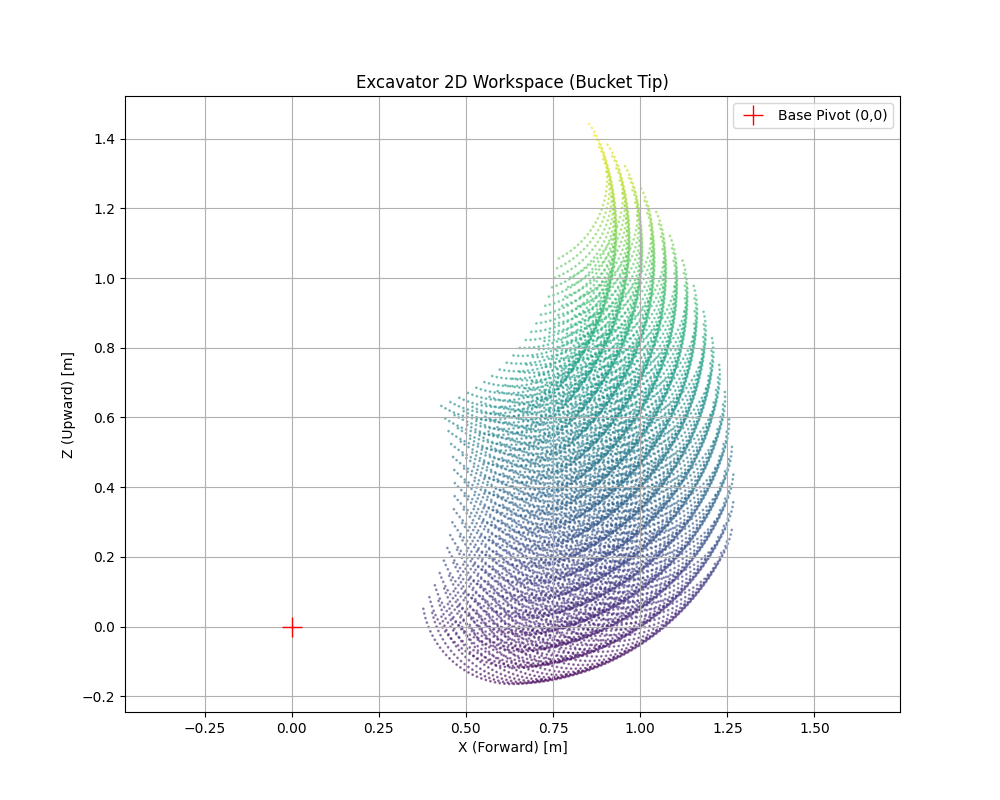
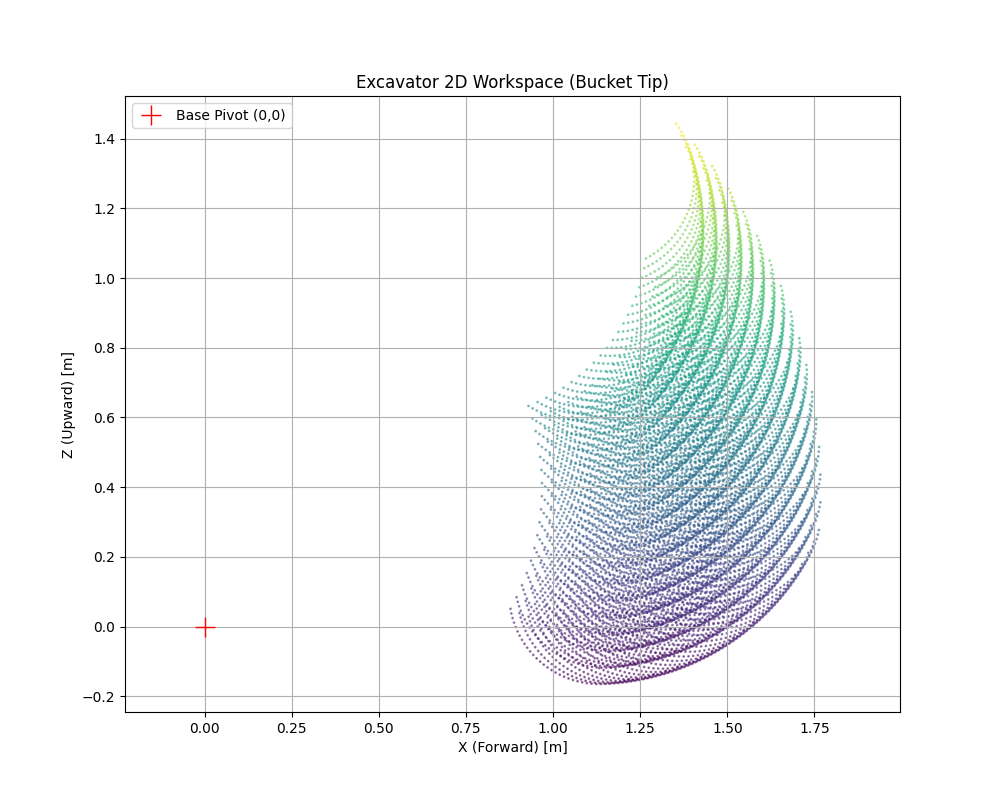
fix v10

diff --git a/v10_cailbration/animate_trajectory_3d.py b/v10_cailbration/animate_trajectory_3d.py
@@ -10,8 +10,8 @@ class TrajectoryAnimator3D:
     def __init__(self, json_path):
         self.json_path = json_path
         
-        # 物理尺寸参数
-        self.offset_x = -0.25
+        # 物理参数
+        self.offset_x = 0.25
         self.offset_z = 0.40
         self.L1 = 0.35
         self.L2 = 0.60
@@ -121,8 +121,8 @@ class TrajectoryAnimator3D:
         fig.suptitle('Excavator 3D Trajectory (Dual View)', fontsize=16)
         
         # --- 左侧：俯视图 (Top View, X-Y 平面) ---
-        ax_top.set_xlim(-1.5, 1.5)
-        ax_top.set_ylim(-1.5, 1.5)
+        ax_top.set_xlim(-2.0, 2.0)
+        ax_top.set_ylim(-2.0, 2.0)
         ax_top.set_aspect('equal')
         ax_top.grid(True)
         ax_top.set_title('Top View (Swing X-Y)')
@@ -132,11 +132,11 @@ class TrajectoryAnimator3D:
         
         line_top, = ax_top.plot([], [], 'o-', lw=4, markersize=6, color='blue', label='Arm')
         traj_top, = ax_top.plot([], [], 'r-', lw=1.5, alpha=0.6, label='Bucket Tip')
-        ax_top.legend(loc='upper right')
+        ax_top.legend(loc='upper left')
         
         # --- 右侧：侧视图 (Side View, Distance-Z 平面) ---
-        ax_side.set_xlim(-0.5, 1.8)
-        ax_side.set_ylim(-1.0, 1.5)
+        ax_side.set_xlim(-0.5, 2.0)
+        ax_side.set_ylim(-1.0, 1.8)
         ax_side.set_aspect('equal')
         ax_side.grid(True)
         ax_side.set_title('Side View (Profile D-Z)')
@@ -147,7 +147,7 @@ class TrajectoryAnimator3D:
         
         line_side, = ax_side.plot([], [], 'o-', lw=4, markersize=6, color='green', label='Arm Profile')
         traj_side, = ax_side.plot([], [], 'r-', lw=1.5, alpha=0.6, label='Bucket Tip')
-        ax_side.legend(loc='upper right')
+        ax_side.legend(loc='upper left')
         
         trajectory_x, trajectory_y, trajectory_z, trajectory_d = [], [], [], []
 

diff --git a/v10_cailbration/animate_trajectory.py b/v10_cailbration/animate_trajectory.py
@@ -11,7 +11,7 @@ class TrajectoryAnimator:
         self.json_path = json_path
         
         # 物理参数
-        self.offset_x = -0.25
+        self.offset_x = 0.25
         self.offset_z = 0.40
         self.L1 = 0.35
         self.L2 = 0.60
@@ -110,7 +110,7 @@ class TrajectoryAnimator:
         line, = ax.plot([], [], 'o-', lw=4, markersize=8, label='Excavator Arm')
         trajectory_line, = ax.plot([], [], 'r-', lw=1.5, alpha=0.6, label='Bucket Tip Trajectory')
         
-        ax.legend(loc='upper right')
+        ax.legend(loc='upper left')
         
         trajectory_x = []
         trajectory_z = []

diff --git a/v10_cailbration/workspace_analyzer.py b/v10_cailbration/workspace_analyzer.py
@@ -9,7 +9,7 @@ class WorkspaceAnalyzer:
     """
     def __init__(self):
         # 坐标系偏移 (相对于回转中心地面投影点)
-        self.offset_x = -0.25
+        self.offset_x = 0.25
         self.offset_y = 0.0
         self.offset_z = 0.40
         
@@ -120,7 +120,7 @@ class WorkspaceAnalyzer:
         plt.ylabel('Z (Upward) [m]')
         plt.axis('equal')
         plt.grid(True)
-        plt.legend()
+        plt.legend(loc='upper left')
         
         save_path = "/media/libo/libo_sn7100/ubuntu2204/shandong_ws/src/shandong/v10_cailbration/workspace_plot.png"
         plt.savefig(save_path)

diff --git a/v10_cailbration/kinematics.py b/v10_cailbration/kinematics.py
@@ -8,7 +8,7 @@ class ExcavatorKinematics:
     def __init__(self):
         # 1. 物理参数配置 (单位: 米)
         # 坐标系偏移: 原点为回转中心地面投影 (X向前, Y向左, Z向上)
-        self.offset_x = -0.25
+        self.offset_x = 0.25
         self.offset_y = 0.0
         self.offset_z = 0.40  # 你提供的是 z:-0.4，但通常销轴在地面之上，所以我用 +0.4 作为销轴的高度
 

diff --git a/v10_cailbration/inverse_kinematics.py b/v10_cailbration/inverse_kinematics.py
@@ -7,7 +7,7 @@ class ExcavatorIK:
     """
     def __init__(self):
         # 1. 坐标系与物理参数 (与 FK 保持完全一致)
-        self.offset_x = -0.25
+        self.offset_x = 0.25
         self.offset_z = 0.40
         self.L1 = 0.35
         self.L2 = 0.60

diff --git a/v10_cailbration/readme_arm.md b/v10_cailbration/readme_arm.md
@@ -60,7 +60,7 @@ $$\beta \approx \arcsin(0.2861) \approx 16.63^\circ$$
 *   **Z 轴**：垂直向上为正。
 
 基于你的测量，大臂底座销轴相对于新原点的偏移量为：
-*   $Offset\_X = -0.25 \text{ m}$ (底座销轴在回转中心后方 0.25m)
+*   $Offset\_X = 0.25 \text{ m}$ (底座销轴在回转中心前方 0.25m)
 *   $Offset\_Y = 0.0 \text{ m}$ (假设大臂没有侧向偏置)
 *   $Offset\_Z = 0.4 \text{ m}$ (底座销轴距离地面的高度。注意：你提供的是大臂底部销轴相对于原点的Z为 -0.4m？通常销轴在地面之上，Z偏移应为正 0.4m。此处设定地面为Z=0，则大臂销轴Z坐标为 0.4m)
 
